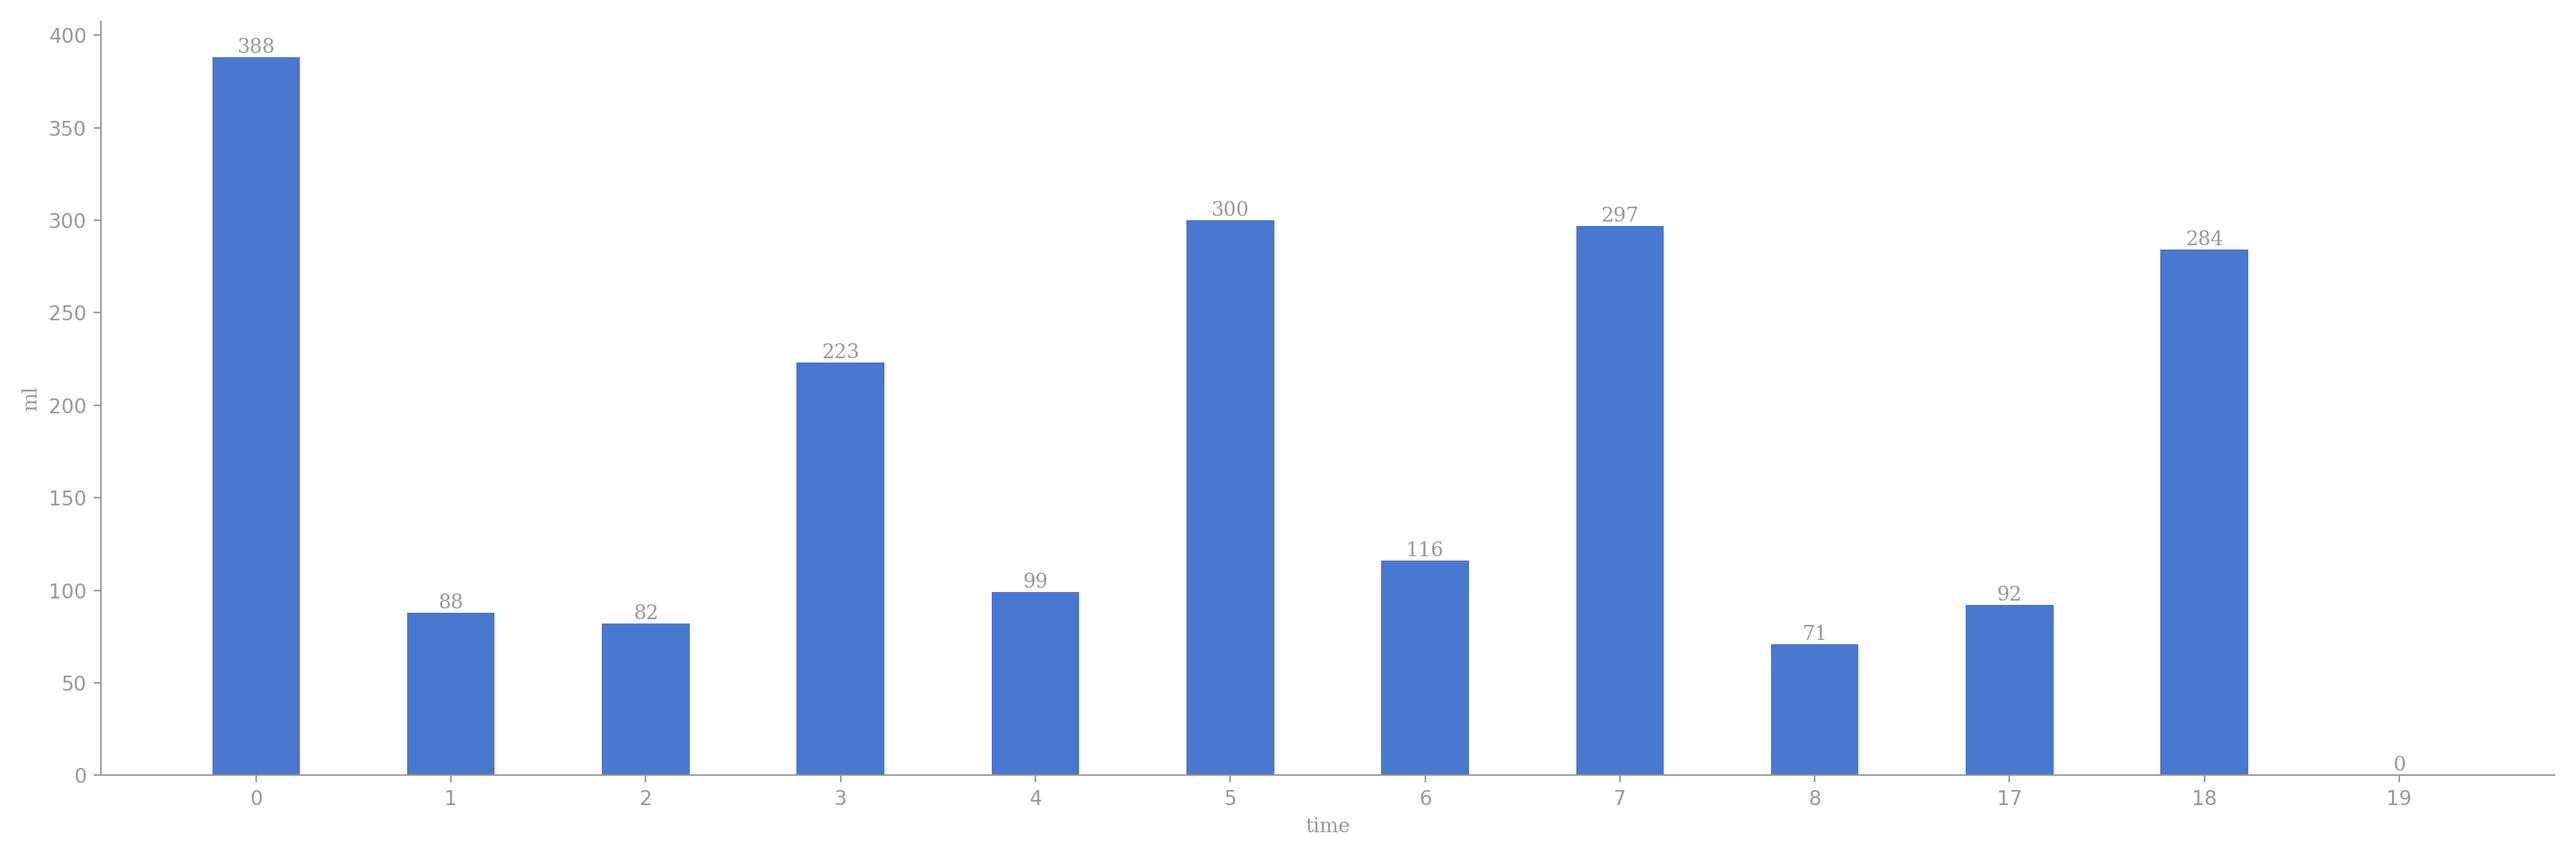
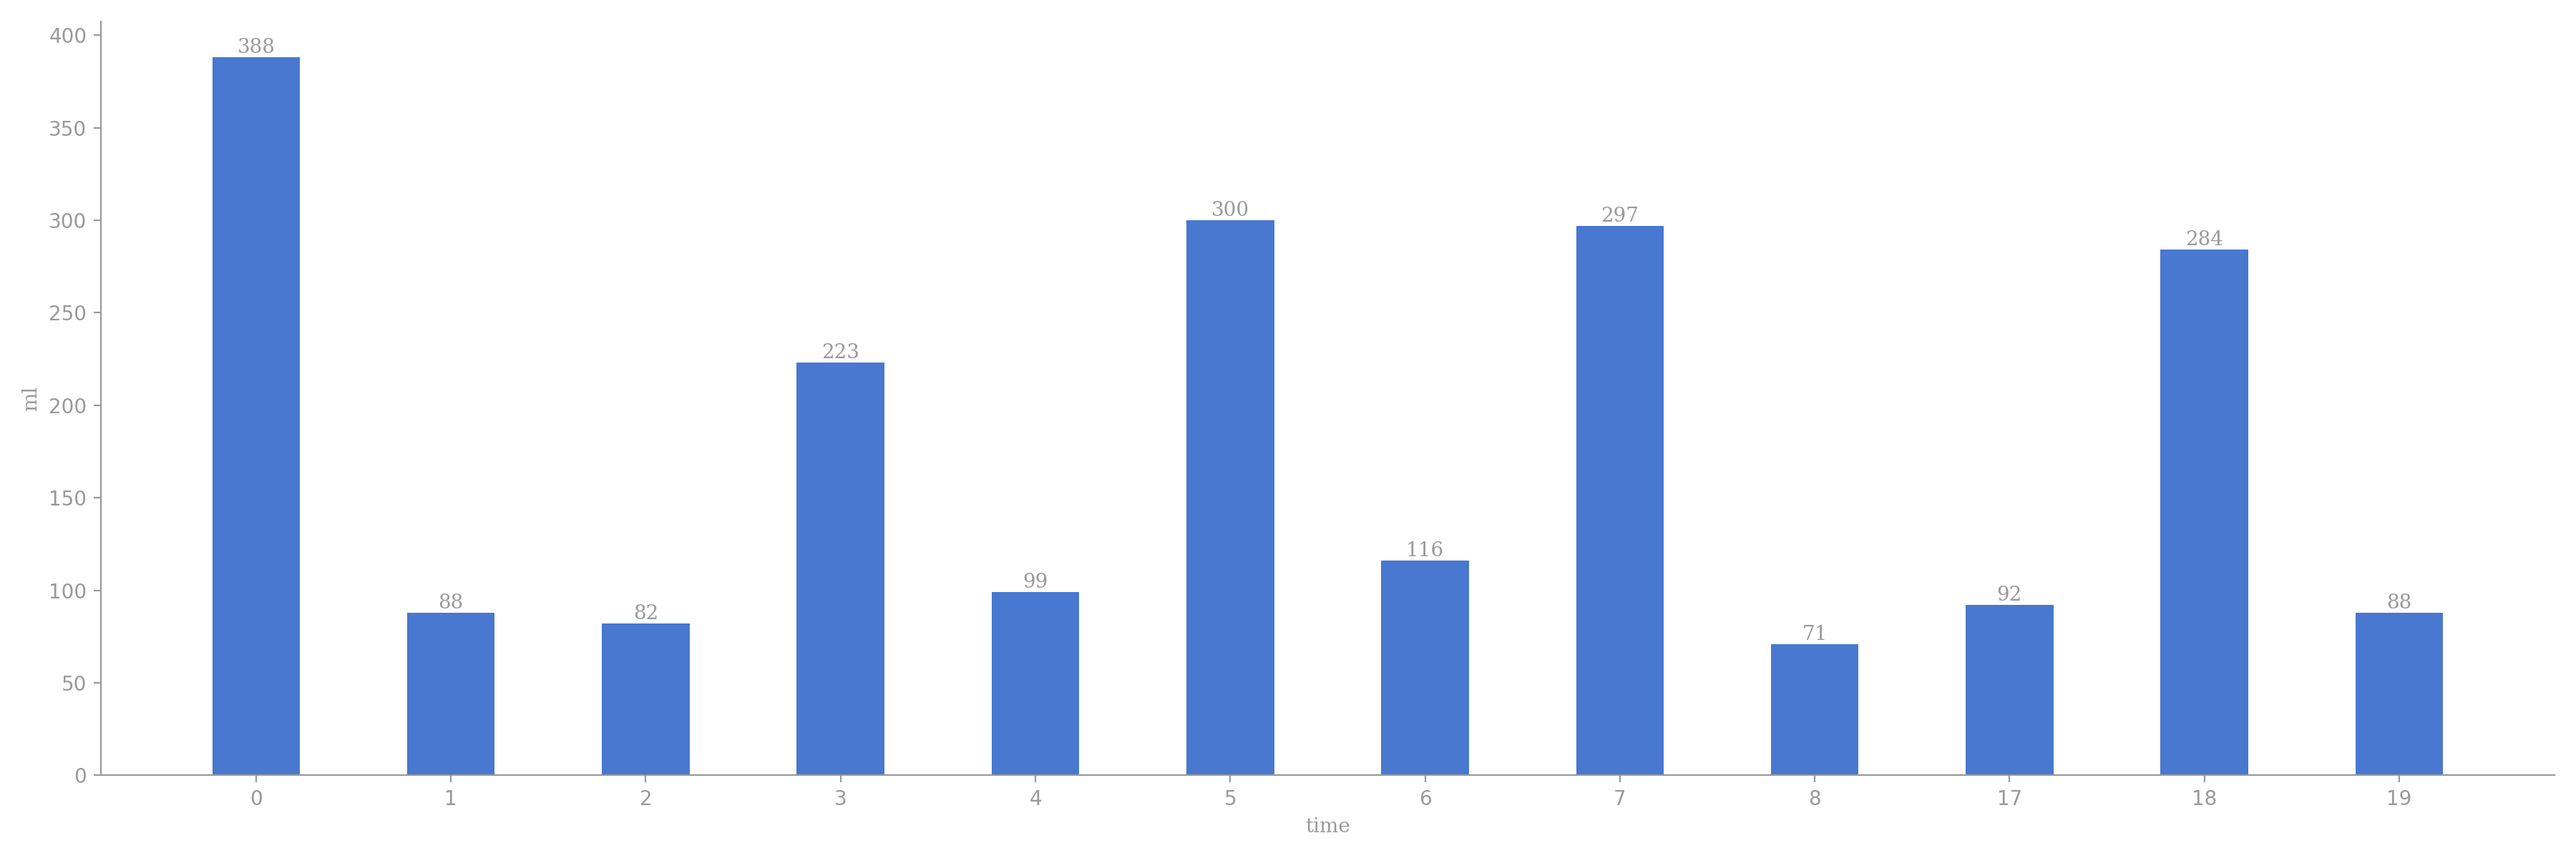
crontab auto git

Changed region(s): [[0.9022, 0.7092, 0.9644, 0.925]]

diff --git a/README.md b/README.md
@@ -5,12 +5,12 @@
 
 | 今日总饮水量 | 每小时平均饮水量 |
 | :----: | :----: |
-| 2040 | 185 |
+| 2128 | 177 |
 </div>
 
-| 日期 | 00:56:51 | 01:36:01 | 02:34:32 | 03:19:23 | 04:21:19 | 05:45:47 | 06:45:54 | 07:21:24 | 07:52:19 | 08:36:53 | 17:11:15 | 18:02:44 | 18:52:19 |
-| :----: | :----: | :----: | :----: | :----: | :----: | :----: | :----: | :----: | :----: | :----: | :----: | :----: | :----: |
-| 2026-01-21 | 388 | 88 | 82 | 223 | 99 | 300 | 116 | 221 | 76 | 71 | 92 | 200 | 84 |
+| 日期 | 00:56:51 | 01:36:01 | 02:34:32 | 03:19:23 | 04:21:19 | 05:45:47 | 06:45:54 | 07:21:24 | 07:52:19 | 08:36:53 | 17:11:15 | 18:02:44 | 18:52:19 | 19:37:11 |
+| :----: | :----: | :----: | :----: | :----: | :----: | :----: | :----: | :----: | :----: | :----: | :----: | :----: | :----: | :----: |
+| 2026-01-21 | 388 | 88 | 82 | 223 | 99 | 300 | 116 | 221 | 76 | 71 | 92 | 200 | 84 | 88 |
 
 # 近30日饮水数据
 
